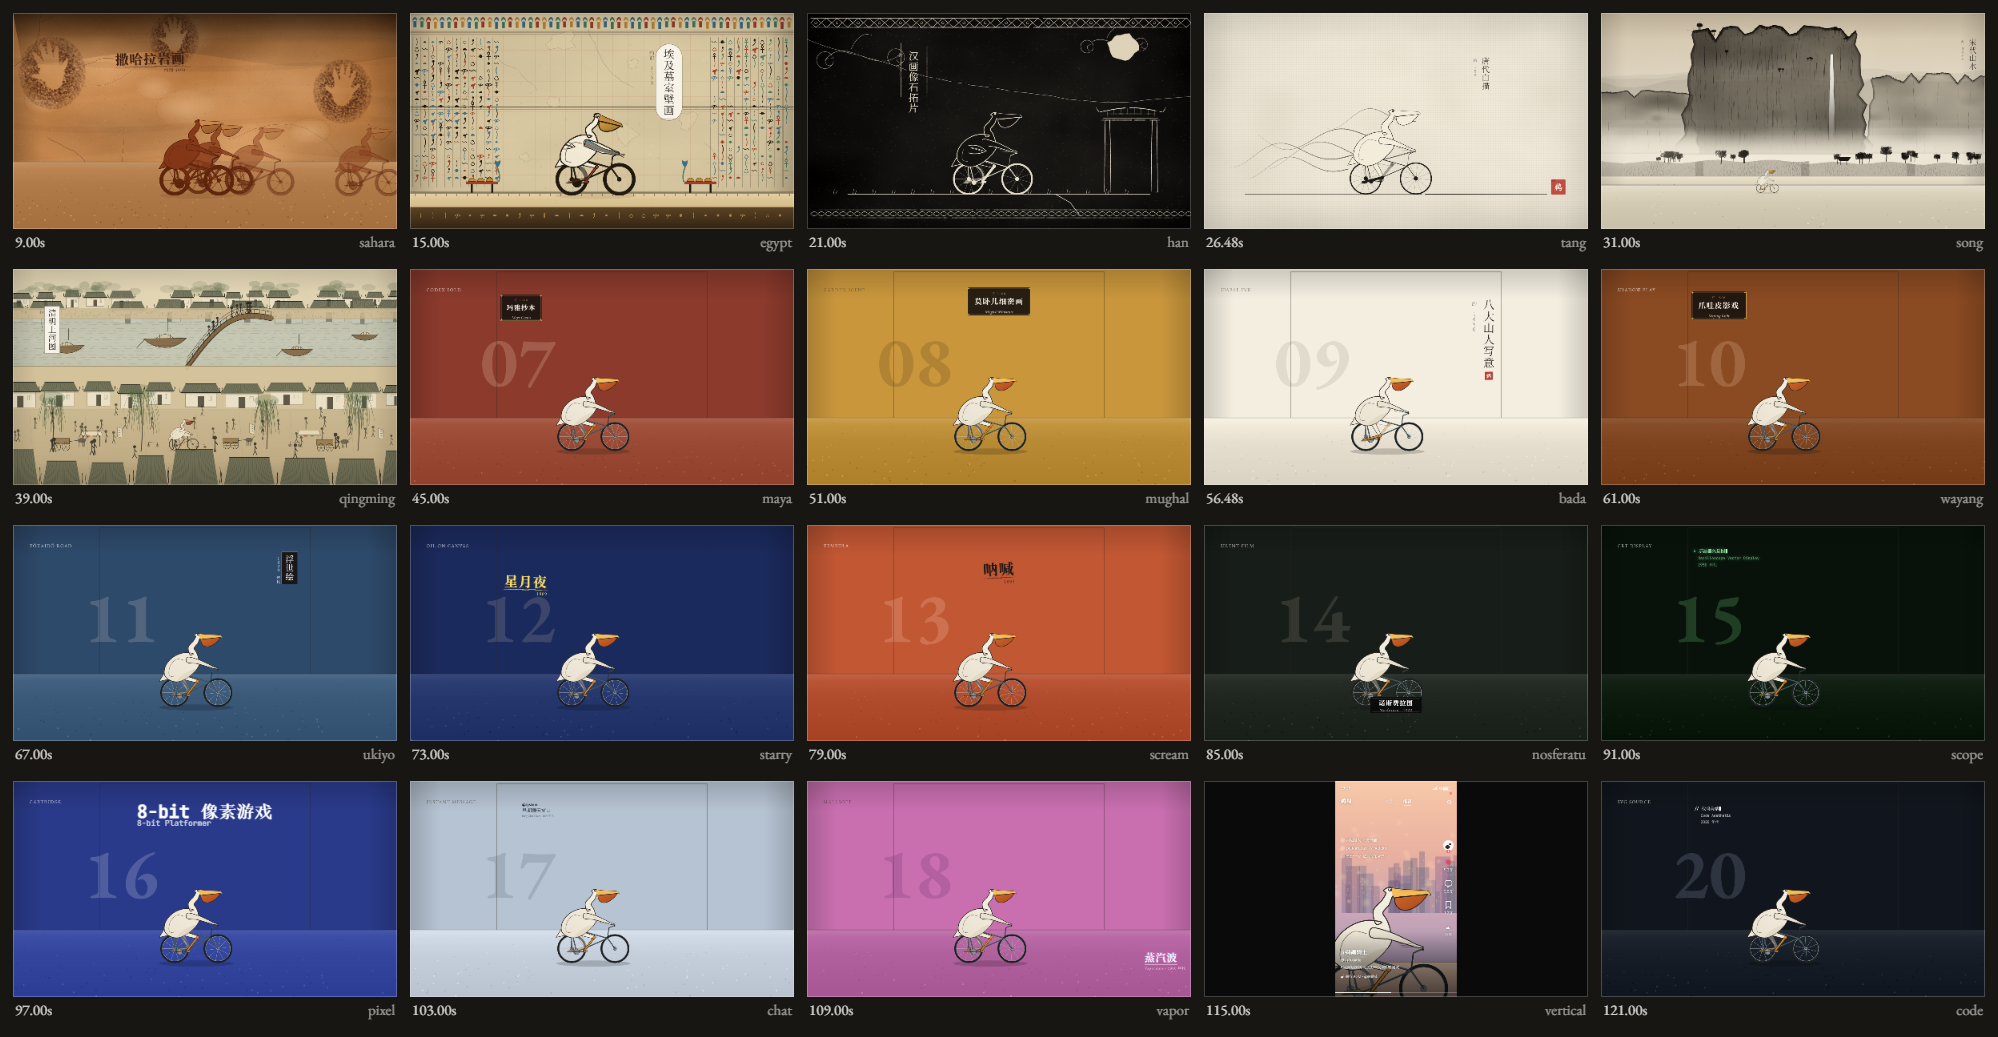
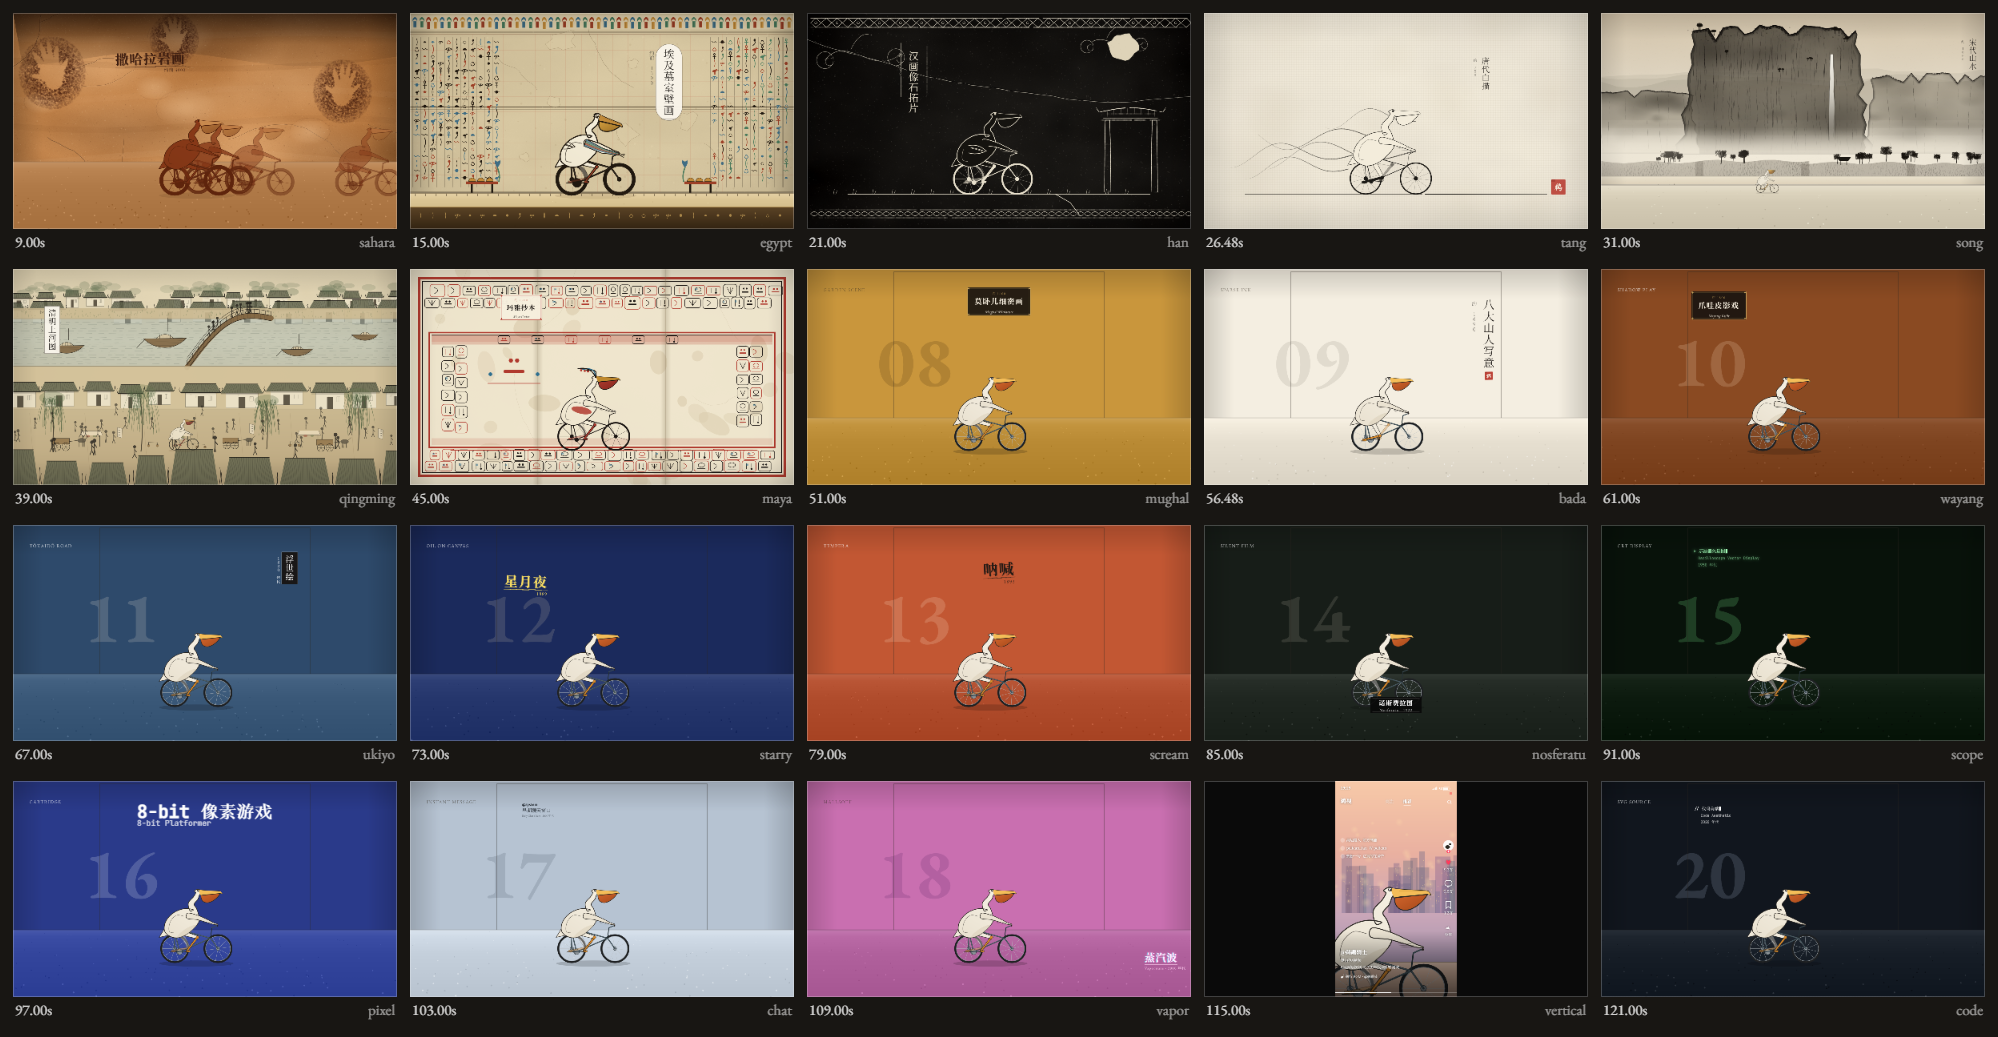
07 玛雅抄本
版式
- 石灰底（奶白）+ 朱红双线外框：抄本没有"黑底金匾"，框是红的、底是白的
- 字块带上下各两排，每块大小不一（一行等大的方块会像仪表盘）
- 格子里左右各两列字块 —— 真抄本的每一格都是满的
- 两条手风琴折痕（竖影 + 磨损线）+ 石灰细裂纹

人物
- 黑线 + 奶白身 + 朱红喉袋（抄本神像的画法）
- 加一条朱红胸带、三根带红点的头饰翎

梗：**它的旅程只是一行日期**
- 骑手左侧一组"横条 + 圆点"（一点 = 1，一横 = 5），一路骑一路往上跳
- 在抄本里它不是角色，是一个计数

工具
- 题名 plaque 样式原来只认 plaqueInk，给 maya 补了红框奶白牌
- 帧缓存从 PNG 改 JPEG 后，抓帧拆成 grabFrame（PNG 截图）/ grabFrameJpeg（逐帧导出）

注：搬回 D: 时踩了 .NET Directory::Delete 对目录联接会穿透删目标内容的坑，
帧与成片已重渲重编（数据可重建，无损失）

Changed region(s): [[0.1862, 0.2469, 0.4034, 0.4937]]

diff --git a/src/scenes/maya.js b/src/scenes/maya.js
@@ -1,16 +1,370 @@
-/* scenes/maya.js — 07 玛雅抄本 · Maya Codex · 约 1200
+/* scenes/maya.js — 07 玛雅抄本（42 – 48 s，3 小节）
  *
- * 阶段 1：占位色块。只为验证节奏、转场、路面接缝、标题卡可读性。
- * 阶段 3 会被真实实现替换 —— 届时改这一个文件即可，不要动 _base.js。
+ * 时代规矩：
+ *   · 手风琴折的树皮纸，表面刷一层白石灰，所以底是**奶白**不是黄；
+ *   · 颜料只有几种：铁红、烟黑、玛雅蓝、少量赭黄 —— 都是平的，不调不晕；
+ *   · 每一页被红黑线切成若干格（compartment），格里放神像、日期柱、字块；
+ *   · 数字是"横条 + 圆点"（一点 = 1，一横 = 5），全用红或黑；
+ *   · 竖着的折痕是这本东西最认得出的物理特征。
+ *
+ * 梗：**它的旅程只是一行日期**。骑手头顶挂着一组横条圆点，一路骑一路往上跳 ——
+ *     在抄本里，它不是一个角色，是一个计数。
+ *
+ *   ① 0 – 2   折痕压出，红框与字块立起来，日期从 1 开始
+ *   ② 2 – 4   骑手穿过第一道折痕（折痕上有阴影带）
+ *   ③ 4 – 6   日期跳到 13，继续往右
  */
+
 (function () {
+  const V = (window.V = window.V || {});
   const S = (window.V.scenes = window.V.scenes || {});
-  S.maya = window.V.base.makePlaceholder({
-    tint: '#8b3a2c',
-    paper: 'washi',
-    label: 'CODEX FOLD',
-    numColor: 'rgba(255,230,200,0.20)',
-    road: { color: '#9a4a34', speed: 1 },
-    rider: { scale: 1 },
-  });
+  const B = V.base;
+
+  const CREAM = '#efe6cf';
+  const RED = '#b03a2e';
+  const BLACK = '#1a1512';
+  const BLUE = '#2f6f8f';
+  const OCHRE = '#c08a2e';
+
+  /** 玛雅数字：一点 = 1，一横 = 5。n 在 1..19 */
+  function barDot(c, x, y, n, s, col) {
+    const bars = Math.floor(n / 5);
+    const dots = n % 5;
+    c.save();
+    c.fillStyle = col || RED;
+    // 横条从下往上叠
+    for (let i = 0; i < bars; i++) {
+      const by = y - i * s * 0.34;
+      c.beginPath();
+      c.roundRect(x - s * 0.5, by - s * 0.16, s, s * 0.17, s * 0.08);
+      c.fill();
+    }
+    // 圆点在最上面一排
+    const dotY = y - bars * s * 0.34 - s * 0.26;
+    for (let i = 0; i < dots; i++) {
+      const dx = (i - (dots - 1) / 2) * s * 0.30;
+      c.beginPath();
+      c.arc(x + dx, dotY, s * 0.10, 0, Math.PI * 2);
+      c.fill();
+    }
+    c.restore();
+  }
+
+  /** 字块：圆角方框 + 里面两三笔抽象符号 */
+  function glyphBlock(c, x, y, w, h, seed) {
+    const rnd = V.rng(seed || 1);
+    const ink = rnd() > 0.72 ? RED : BLACK;
+    c.save();
+    // 框
+    c.strokeStyle = rnd() > 0.6 ? RED : BLACK;
+    c.lineWidth = 2.4;
+    c.beginPath();
+    c.roundRect(x - w / 2, y - h / 2, w, h, Math.min(w, h) * 0.22);
+    c.stroke();
+    // 里面的笔画
+    c.strokeStyle = ink;
+    c.lineWidth = 2.2;
+    c.lineCap = 'round';
+    const kind = Math.floor(rnd() * 5);
+    const cx = x, cy = y;
+    if (kind === 0) {
+      // 一个圈 + 一横
+      c.beginPath();
+      c.ellipse(cx, cy - h * 0.10, w * 0.22, h * 0.20, 0, 0, Math.PI * 2);
+      c.stroke();
+      c.beginPath();
+      c.moveTo(cx - w * 0.26, cy + h * 0.24);
+      c.lineTo(cx + w * 0.26, cy + h * 0.24);
+      c.stroke();
+    } else if (kind === 1) {
+      // 两竖 + 一点
+      c.beginPath();
+      c.moveTo(cx - w * 0.18, cy - h * 0.26);
+      c.lineTo(cx - w * 0.18, cy + h * 0.26);
+      c.moveTo(cx + w * 0.18, cy - h * 0.26);
+      c.lineTo(cx + w * 0.18, cy + h * 0.10);
+      c.stroke();
+      c.fillStyle = ink;
+      c.beginPath();
+      c.arc(cx + w * 0.18, cy + h * 0.24, w * 0.07, 0, Math.PI * 2);
+      c.fill();
+    } else if (kind === 2) {
+      // S 形
+      c.beginPath();
+      c.moveTo(cx - w * 0.22, cy - h * 0.24);
+      c.quadraticCurveTo(cx + w * 0.24, cy - h * 0.04, cx - w * 0.20, cy + h * 0.24);
+      c.stroke();
+    } else if (kind === 3) {
+      // 横条 + 两点（像数字）
+      c.fillStyle = ink;
+      c.fillRect(cx - w * 0.26, cy + h * 0.06, w * 0.52, h * 0.10);
+      c.beginPath();
+      c.arc(cx - w * 0.12, cy - h * 0.16, w * 0.07, 0, Math.PI * 2);
+      c.arc(cx + w * 0.12, cy - h * 0.16, w * 0.07, 0, Math.PI * 2);
+      c.fill();
+    } else {
+      // 三笔放射
+      for (let i = -1; i <= 1; i++) {
+        c.beginPath();
+        c.moveTo(cx, cy + h * 0.26);
+        c.lineTo(cx + i * w * 0.22, cy - h * 0.24);
+        c.stroke();
+      }
+    }
+    // 偶尔点一块玛雅蓝
+    if (rnd() > 0.78) {
+      c.globalAlpha = 0.55;
+      c.fillStyle = BLUE;
+      c.fillRect(x - w * 0.22, y - h * 0.22, w * 0.18, h * 0.16);
+      c.globalAlpha = 1;
+    }
+    c.restore();
+  }
+
+  S.maya = {
+    placeholder: false,
+    draw: function (ctx, t, u, meta) {
+      const cam = meta.cam || V.camDefault();
+
+      const baked = V.layer.bake2d('maya:base', (g) => {
+        const c = g.drawingContext;
+        const W = g.width, H = g.height;
+        V.paper.paint(c, W, H, 'washi', 707);
+        const rnd = V.rng(707);
+
+        const boxL = 96, boxR = W - 96;
+        const boxT = 318, boxB = 892;
+
+        // ---- 石灰底：偏奶白，局部有剥落 ----
+        c.save();
+        c.globalAlpha = 0.72;
+        c.fillStyle = CREAM;
+        c.fillRect(0, 0, W, H);
+        c.restore();
+        for (let i = 0; i < 26; i++) {
+          const x = rnd() * W, y = rnd() * H;
+          const r = 18 + rnd() * 70;
+          c.save();
+          c.globalAlpha = 0.30 + rnd() * 0.25;
+          c.fillStyle = 'rgba(214,198,166,1)';
+          c.beginPath();
+          c.ellipse(x, y, r, r * (0.5 + rnd() * 0.5), rnd() * 3, 0, Math.PI * 2);
+          c.fill();
+          c.restore();
+        }
+
+        // ---- 外框：红黑双线 ----
+        c.save();
+        c.strokeStyle = RED;
+        c.lineWidth = 10;
+        c.strokeRect(46, 46, W - 92, H - 92);
+        c.strokeStyle = BLACK;
+        c.lineWidth = 2.4;
+        c.strokeRect(62, 62, W - 124, H - 124);
+        c.restore();
+
+        // ---- 顶部字块带：两排，大小不一 ----
+        // 一行等大的方块会像仪表盘；真抄本的字块是挤在一起的，横竖都有变化。
+        for (let row = 0; row < 2; row++) {
+          let x = 100 - (row ? 26 : 0);
+          while (x < W - 110) {
+            const bw = 46 + rnd() * 34;
+            const bh = 44 + rnd() * 20;
+            glyphBlock(c, x + bw / 2, 108 + row * 62, bw, bh, 100 + x + row * 7);
+            x += bw + 6 + rnd() * 10;
+          }
+        }
+
+        // ---- 中间：神像格（红框内） ----
+        c.save();
+        c.strokeStyle = RED;
+        c.lineWidth = 7;
+        c.strokeRect(boxL, boxT, boxR - boxL, boxB - boxT);
+        c.strokeStyle = BLACK;
+        c.lineWidth = 1.8;
+        c.strokeRect(boxL + 12, boxT + 12, boxR - boxL - 24, boxB - boxT - 24);
+        c.restore();
+
+        // 格子里上下各一条红带（抄本里常见）
+        c.save();
+        c.fillStyle = 'rgba(176,58,46,0.14)';
+        c.fillRect(boxL + 12, boxT + 12, boxR - boxL - 24, 34);
+        c.fillRect(boxL + 12, boxB - 46, boxR - boxL - 24, 34);
+        c.restore();
+
+        // ---- 底部字块带：两排 ----
+        for (let row = 0; row < 2; row++) {
+          let x = 100 - (row ? 24 : 0);
+          while (x < W - 110) {
+            const bw = 48 + rnd() * 32;
+            const bh = 42 + rnd() * 18;
+            glyphBlock(c, x + bw / 2, H - 150 + row * 56, bw, bh, 900 + x + row * 5);
+            x += bw + 6 + rnd() * 10;
+          }
+        }
+
+        // ---- 格子里左右各两列字块：抄本的每一格都是满的 ----
+        for (const side of [0, 1]) {
+          for (let col = 0; col < 2; col++) {
+            const gx = side ? W - 190 - col * 66 : 190 + col * 66;
+            let gy = boxT + 96;
+            while (gy < boxB - 76) {
+              const bw = 54 + rnd() * 12;
+              const bh = 50 + rnd() * 14;
+              glyphBlock(c, gx, gy, bw, bh, (side * 500 + col * 60) + gy);
+              gy += bh + 12 + rnd() * 10;
+            }
+          }
+        }
+
+        // ---- 格子顶上的红带 + 三个日期块 ----
+        c.save();
+        c.fillStyle = 'rgba(176,58,46,0.22)';
+        c.fillRect(boxL + 12, boxT + 12, boxR - boxL - 24, 48);
+        c.restore();
+        for (let i = 0; i < 6; i++) {
+          glyphBlock(c, 470 + i * 168, boxT + 36, 60, 40, 300 + i);
+        }
+
+        // ---- 手风琴折痕：两条竖影 ----
+        for (const fx of [W * 0.333, W * 0.666]) {
+          const gg = c.createLinearGradient(fx - 26, 0, fx + 26, 0);
+          gg.addColorStop(0, 'rgba(120,104,74,0)');
+          gg.addColorStop(0.45, 'rgba(120,104,74,0.22)');
+          gg.addColorStop(0.5, 'rgba(90,76,52,0.30)');
+          gg.addColorStop(0.55, 'rgba(120,104,74,0.20)');
+          gg.addColorStop(1, 'rgba(120,104,74,0)');
+          c.fillStyle = gg;
+          c.fillRect(fx - 26, 0, 52, H);
+          // 折线上的一点磨损
+          c.save();
+          c.globalAlpha = 0.5;
+          c.strokeStyle = 'rgba(150,132,98,0.7)';
+          c.lineWidth = 1.4;
+          c.beginPath();
+          c.moveTo(fx, 40);
+          c.lineTo(fx, H - 40);
+          c.stroke();
+          c.restore();
+        }
+
+        // ---- 石灰的细裂纹 ----
+        for (let i = 0; i < 7; i++) {
+          let x = rnd() * W, y = rnd() * H;
+          let ang = rnd() * Math.PI * 2;
+          c.save();
+          c.strokeStyle = 'rgba(150,130,96,0.28)';
+          c.lineWidth = 0.9;
+          c.beginPath();
+          c.moveTo(x, y);
+          for (let k = 0; k < 14; k++) {
+            ang += rnd.gauss() * 0.5;
+            x += Math.cos(ang) * 26;
+            y += Math.sin(ang) * 26;
+            c.lineTo(x, y);
+          }
+          c.stroke();
+          c.restore();
+        }
+
+        V.paper.innerShadow(c, W, H, 0.12, 130);
+      }, { w: V.W, h: V.H });
+
+      ctx.drawImage(baked.canvas, 0, 0);
+
+      // ---------------- 动态层 ----------------
+      V.enterCam(ctx, cam);
+
+      // 地面：一条红的横线（抄本里格子底部就是一道色带）
+      ctx.save();
+      ctx.strokeStyle = RED;
+      ctx.lineWidth = 4;
+      ctx.beginPath();
+      ctx.moveTo(-200, V.ROAD_Y);
+      ctx.lineTo(V.STAGE + 200, V.ROAD_Y);
+      ctx.stroke();
+      ctx.restore();
+
+      // 骑手：黑线 + 奶白身 + 红蓝点缀（抄本神像的画法）
+      const rr = B.drawRider(ctx, t, {
+        scale: 1.02,
+        shadow: false,
+        pelicanStyle: {
+          body: '#f6efdc', bodyShade: '#e6dbc0', line: BLACK,
+          beak: OCHRE, beakDark: '#8f5f18', pouch: RED, pouchShade: '#8a2a20',
+          leg: RED, eye: BLACK, lw: 2.8, feather: 0, eyeStyle: 'dot',
+        },
+        bikeStyle: {
+          frame: BLACK, frameDark: BLACK, tire: BLACK, rim: BLACK,
+          spoke: 'rgba(26,21,18,0.75)', saddle: BLACK, lw: 2.4, tubeW: 3.4, spokes: 8, shine: 0,
+        },
+      });
+
+      // 抄本里的神像都有装饰：给鹈鹕加一条朱红胸带、蓝羽冠和三根头饰翎
+      const pp = rr.p;
+      ctx.save();
+      ctx.translate(rr.x, rr.y);
+      ctx.scale(1.02, 1.02);
+      // 胸带
+      V.ink.clipped(ctx, pp.body, (cc) => {
+        cc.fillStyle = RED;
+        cc.globalAlpha = 0.85;
+        cc.beginPath();
+        cc.ellipse(pp.shoulder[0] - 14, pp.shoulder[1] + 34, 46, 16, 0.2, 0, Math.PI * 2);
+        cc.fill();
+      });
+      // 头饰翎：三根从头顶往后甩的羽毛
+      const hx = pp.headC[0], hy = pp.headC[1] - pp.headR * 0.85;
+      for (let i = 0; i < 3; i++) {
+        const spread = (i - 1) * 0.42;
+        const len = pp.headR * (3.4 + i * 0.4);
+        ctx.strokeStyle = i === 1 ? BLUE : BLACK;
+        ctx.lineWidth = 4.2;
+        ctx.lineCap = 'round';
+        ctx.beginPath();
+        ctx.moveTo(hx, hy);
+        ctx.quadraticCurveTo(
+          hx - Math.cos(Math.PI / 2 - spread) * len * 0.6,
+          hy - Math.sin(Math.PI / 2 - spread) * len * 0.6,
+          hx - len * (0.75 + (i - 1) * 0.18),
+          hy - len * 0.42
+        );
+        ctx.stroke();
+        // 翎上的一点红
+        ctx.fillStyle = RED;
+        ctx.beginPath();
+        ctx.arc(hx - len * (0.62 + (i - 1) * 0.14), hy - len * 0.34, 5.0, 0, Math.PI * 2);
+        ctx.fill();
+      }
+      ctx.restore();
+
+      V.exitCam(ctx);
+
+      // ---------------- 日期柱：就挂在骑手头顶 ----------------
+      // 一路骑一路往上跳 —— 在抄本里它不是角色，是一个计数。
+      const n = 1 + Math.floor((V.clamp(u / (meta.dur || 6)) * 13) % 13);
+      // 放在骑手**左边**的空白处：挂头顶会和头翎打架，而且格子左边本来就是空的
+      const rx2 = 520;
+      const ny = 520;
+      ctx.save();
+      // 底下一条朱红横线，把它和格子里的日期栏连起来
+      ctx.strokeStyle = RED;
+      ctx.lineWidth = 3.4;
+      ctx.beginPath();
+      ctx.moveTo(rx2 - 130, ny + 52);
+      ctx.lineTo(rx2 + 130, ny + 52);
+      ctx.stroke();
+      barDot(ctx, rx2, ny, n, 104, RED);
+      // 两侧各点一个玛雅蓝的装饰点
+      ctx.fillStyle = BLUE;
+      for (const dx of [-118, 118]) {
+        ctx.beginPath();
+        ctx.arc(rx2 + dx, ny + 6, 9, 0, Math.PI * 2);
+        ctx.fill();
+      }
+      ctx.restore();
+
+      V.titles.draw(ctx, 'plaque', meta.strings, u, V.titles.opts('maya', { dur: meta.dur }));
+    },
+  };
 })();

diff --git a/src/kit/titles.js b/src/kit/titles.js
@@ -467,7 +467,10 @@
     song:      { style: 'vertical', x: 1878, y: 128, size: 38, align: 'right' },
     qingming:  { style: 'vertical', x: 176,  y: 200, size: 40, align: 'left', border: 'slip' },
     maya:      { style: 'plaque',   x: 452,  y: 128, size: 33, align: 'left',
-                 gold: 'rgba(214,168,96,0.95)', goldSoft: 'rgba(214,168,96,0.55)' },
+                 // 抄本里没有"黑底金匾"这种东西：框是朱红的、底是石灰白的
+                 gold: '#b03a2e', goldSoft: 'rgba(176,58,46,0.45)',
+                 plaqueFill: 'rgba(247,240,222,0.97)',
+                 plaqueInk: '#1a1512', ink: '#1a1512', accent: 'rgba(26,21,18,0.62)' },
     mughal:    { style: 'plaque',   x: 960,  y: 92,  size: 37, align: 'center' },
     bada:      { style: 'vertical', x: 1396, y: 150, size: 56, align: 'left', seal: true },
     wayang:    { style: 'plaque',   x: 452,  y: 112, size: 37, align: 'left' },
